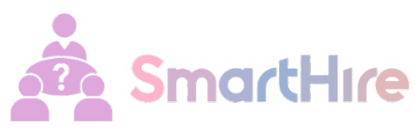
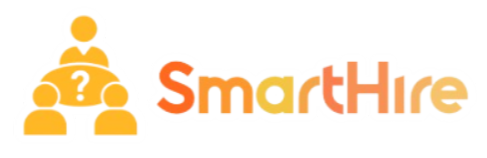
Updated Files

Changed region(s): [[0.3181, 0.3582, 1.0, 0.7761], [0.0, 0.0896, 0.2892, 0.9254]]

diff --git a/admin/assets/css/style.css b/admin/assets/css/style.css
@@ -1633,12 +1633,12 @@ a.nav-item {
     padding: .75rem 1.25rem;
     margin-bottom: -1px;
     border: 1px solid rgb(245, 246, 248);
-    background-color: #f05b0500;
-    color: #ffffff;
+    background-color: #ffffff;
+    color: #000000;
     font-weight: 600;
 }
 a.nav-item:hover, .nav-item.active {
-    background-color: #ffffff72;
+    background-color: #08080858;
     color: #ffffff;
 }
 main#view-panel{

diff --git a/admin/login.php b/admin/login.php
@@ -26,7 +26,7 @@ header("location:index.php?page=home");
             display: flex;
             justify-content: flex-start;
             align-items: center;
-            background: linear-gradient(135deg, #00c9ff, #92fe9d); /* Gradient background */
+            background: linear-gradient(135deg, #ff8c00, #ffd700);
             font-family: Arial, sans-serif;
         }
 
@@ -37,6 +37,19 @@ header("location:index.php?page=home");
             border-radius: 10px;
             box-shadow: 0 4px 8px rgba(0, 0, 0, 0.1);
             margin-left: 50px;
+        }
+
+        .logo-container {
+            flex: 1;
+            display: flex;
+            justify-content: center;
+            align-items: center;
+            margin-left: 100px;
+        }
+
+        .logo-container img {
+            max-width: 400px;
+            height: auto;
         }
 
         h2 {
@@ -68,7 +81,7 @@ header("location:index.php?page=home");
         .form-group button {
             width: 100%;
             padding: 10px;
-            background: linear-gradient(135deg, #00c9ff, #92fe9d);
+            background: linear-gradient(135deg, #ff8c00, #ffd700);
             color: white;
             border: none;
             border-radius: 5px;
@@ -91,7 +104,7 @@ header("location:index.php?page=home");
     </style>
 
 <body>
-<div class="container">
+    <div class="container">
         <h2>Login</h2>
         <form id="login-form" >
             <div class="form-group">
@@ -108,6 +121,10 @@ header("location:index.php?page=home");
         </form>
     </div>
     
+    <div class="logo-container">
+        <img src="assets/img/smarthire.png" alt="SmartHire Logo">
+    </div>
+
 </body>
 <script>
 	$('#login-form').submit(function(e){

diff --git a/admin/topbar.php b/admin/topbar.php
@@ -1,4 +1,4 @@
-<nav class="navbar navbar-light fixed-top" style="padding:10px; background: linear-gradient(to right, white, #c299ff, #5a2ea6); border-bottom-left-radius: 10px; border-bottom-right-radius: 10px; box-shadow: 0 4px 8px rgba(0, 0, 0, 0.3);">
+<nav class="navbar navbar-light fixed-top" style="padding:10px; background: linear-gradient(to right, #ff8c00, #ffd700); border-bottom-left-radius: 10px; border-bottom-right-radius: 10px; box-shadow: 0 4px 8px rgba(0, 0, 0, 0.3);">
   <div class="container-fluid mt-2 mb-2">
     <div class="col-lg-12">
       <div class="col-md-1 float-left" style="display: flex;"> 
@@ -7,7 +7,7 @@
         <img src="assets/img/smarthire.png" alt="SmartHire Logo" style="height:35px; width: auto;">
       </div>
       <div class="col-md-2 float-right text-black">
-        <a href="ajax.php?action=logout" class="text-black"><?php echo $_SESSION['login_name'] ?> <i class="fa fa-power-off"></i></a>
+        <a href="ajax.php?action=logout" class="text-white"><?php echo $_SESSION['login_name'] ?> <i class="fa fa-power-off"></i></a>
       </div>
     </div>
   </div>

diff --git a/admin/navbar.php b/admin/navbar.php
@@ -1,7 +1,7 @@
 
 <style>
 </style>
-<nav id="sidebar" class='mx-lt-5 bg-dark' >
+<nav id="sidebar" class='mx-lt-5 bg-light' >
 		
 		<div class="sidebar-list">
 
